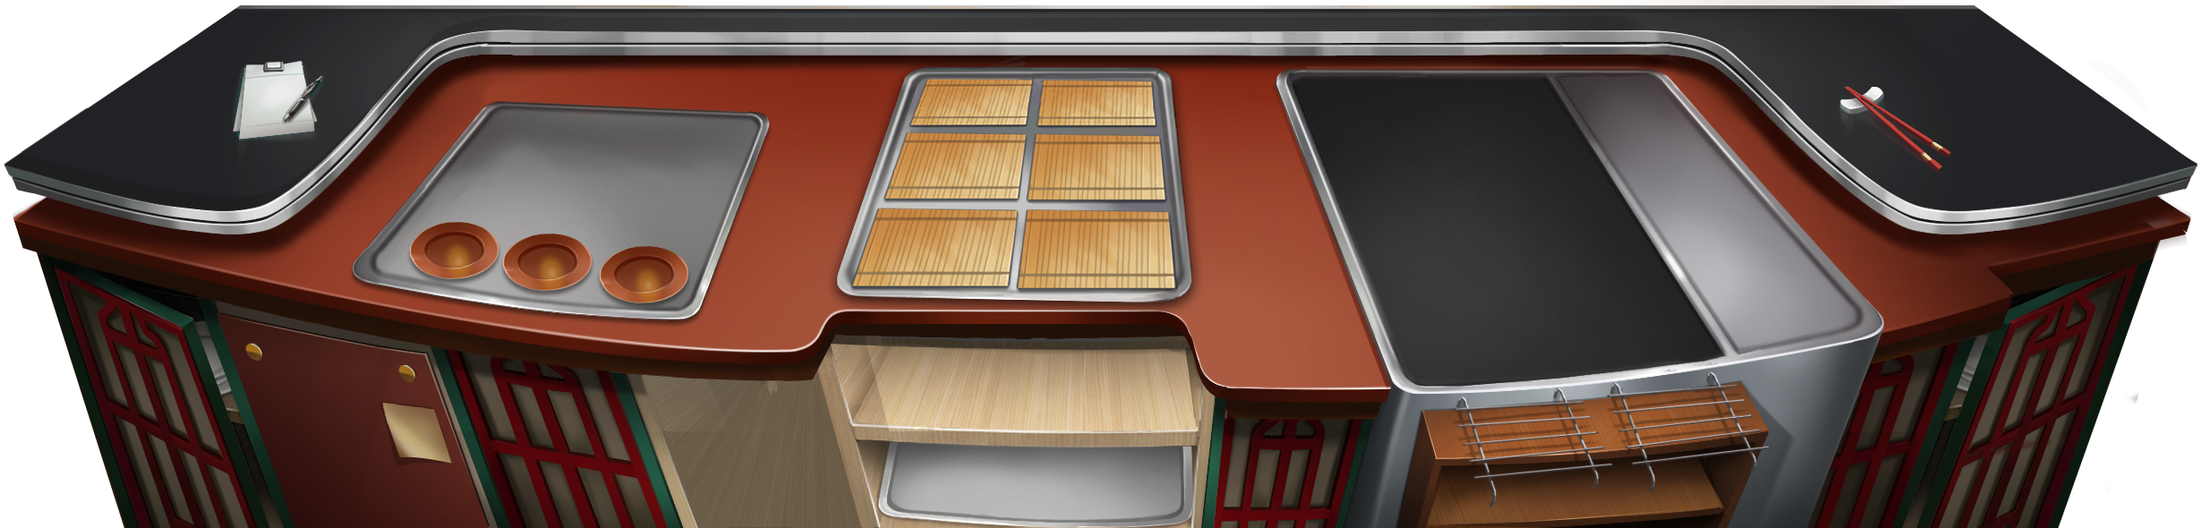
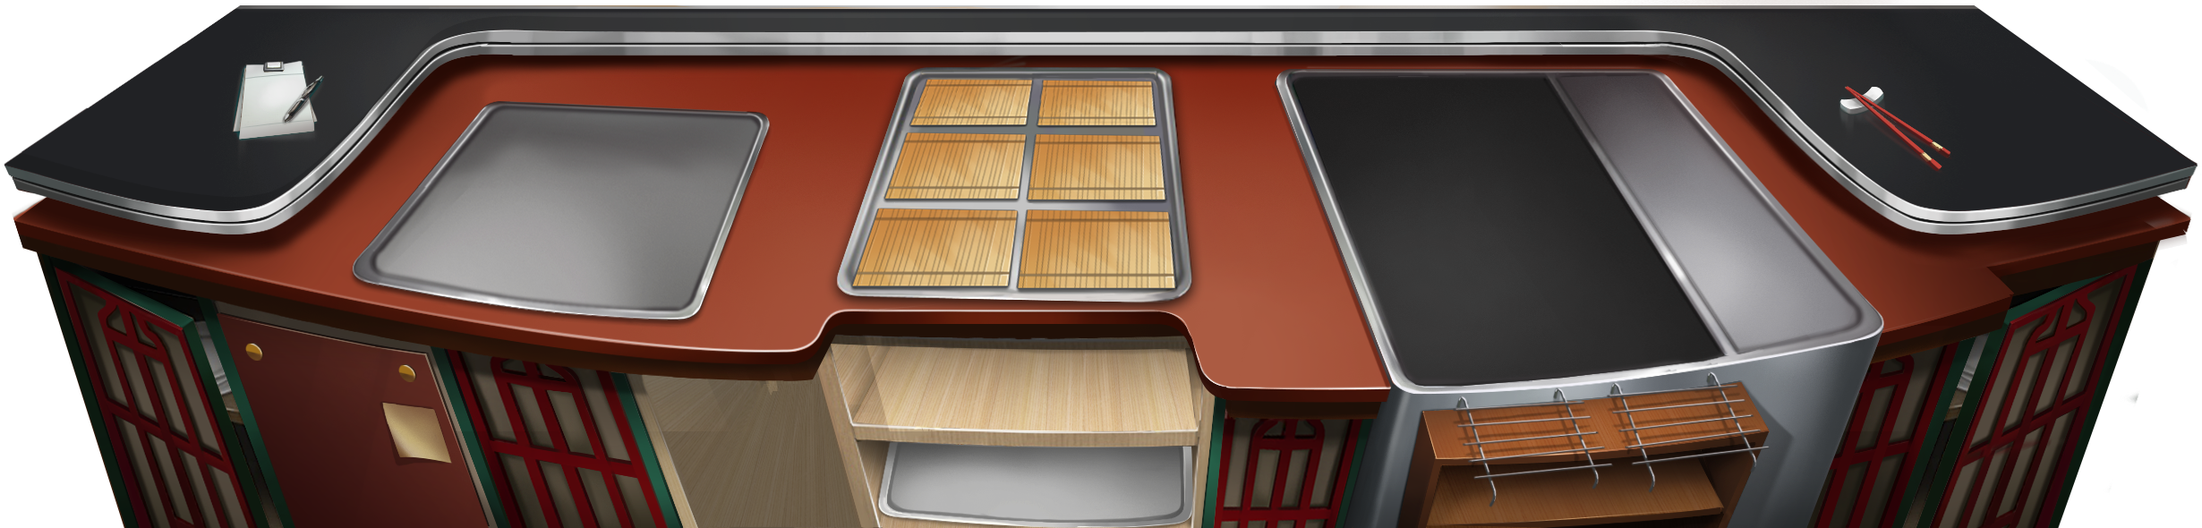
xxx

Changed region(s): [[0.1854, 0.3966, 0.3398, 0.5797]]

diff --git a/bin/js/ui/layaUI.max.all.js b/bin/js/ui/layaUI.max.all.js
@@ -48,7 +48,7 @@ var ui;
         };
         return StageOneInfoUI;
     }(View));
-    StageOneInfoUI.uiView = { "type": "View", "props": { "width": 1920, "height": 1080 }, "child": [{ "type": "Image", "props": { "y": 490, "x": -279, "skin": "stage/caozuotai.png" } }, { "type": "Sprite", "props": { "y": 177, "x": 320, "width": 1182.9999999999998, "name": "Furniture", "height": 321 }, "child": [{ "type": "Image", "props": { "y": 120.99999999999999, "x": -83.00000000000001, "width": 147, "skin": "ui/zhuozi2.png", "name": "Desk1_R3", "height": 120 } }, { "type": "Image", "props": { "y": 120.99999999999999, "x": 188.00000000000003, "width": 147, "skin": "ui/zhuozi2.png", "name": "Desk1_R3", "height": 120 } }, { "type": "Image", "props": { "y": 122, "x": 783.0000000000001, "width": 147, "skin": "ui/zhuozi2.png", "name": "Desk1_R3", "height": 120 } }, { "type": "Image", "props": { "y": 122, "x": 1035.9999999999998, "width": 147, "skin": "ui/zhuozi2.png", "name": "Desk1_R3", "height": 120 } }, { "type": "Image", "props": { "y": 127.00000000000004, "x": 280, "width": 192, "skin": "ui/zhuozi2.png", "name": "Desk1_R2", "height": 155 } }, { "type": "Image", "props": { "y": 127.00000000000004, "x": 629.9999999999998, "width": 192, "skin": "ui/zhuozi2.png", "name": "Desk1_R2", "height": 155 } }, { "type": "Image", "props": { "y": 132, "x": 9.000000000000043, "width": 227, "skin": "ui/zhuozi2.png", "name": "Desk1_R1", "height": 186 } }, { "type": "Image", "props": { "y": 112, "x": 430, "width": 275, "skin": "ui/zhuozi2.png", "name": "Desk1_R1", "height": 252 } }, { "type": "Image", "props": { "y": 135, "x": 865, "width": 227, "skin": "ui/zhuozi2.png", "name": "Desk1_R1", "height": 186 } }] }, { "type": "Sprite", "props": { "y": 849, "x": 1363, "width": 119, "pivotY": 37.19008264462809, "pivotX": 58.677685950413206, "name": "kitchenwareSn2_1", "height": 91 }, "child": [{ "type": "Image", "props": { "skin": "stage/xiaolongxiaguodi.png" } }] }, { "type": "Sprite", "props": { "y": 821, "x": 1521, "width": 165, "pivotY": 49.5867768595042, "pivotX": 80.16528925619832, "name": "kitchenwareSn1_1", "height": 142 }, "child": [{ "type": "Image", "props": { "y": -0.9999999999997726, "skin": "stage/kaolu.png" } }] }, { "type": "Sprite", "props": { "y": 751, "x": 1624, "name": "kitchenwareSn5_1" }, "child": [{ "type": "Image", "props": { "skin": "stage/baowenlu.png" } }] }, { "type": "Sprite", "props": { "y": 864, "x": 236, "name": "trash" }, "child": [{ "type": "Image", "props": { "skin": "stage/lajitong.png" } }] }, { "type": "Sprite", "props": { "y": 584, "x": 1076, "name": "itemSn4" }, "child": [{ "type": "Image", "props": { "skin": "stage/xiangcai.png" } }] }, { "type": "Sprite", "props": { "y": 775, "x": 1088, "name": "itemSn2" }, "child": [{ "type": "Image", "props": { "skin": "stage/huasheng.png" } }] }, { "type": "Sprite", "props": { "y": 673, "x": 1075, "name": "itemSn3" }, "child": [{ "type": "Image", "props": { "skin": "stage/maodou.png" } }] }, { "type": "Sprite", "props": { "y": 764, "x": 771, "width": 191, "pivotY": 42.253521126760575, "pivotX": 102.11267605633805, "name": "kitchenwareSn8_1", "height": 95 }, "child": [{ "type": "Image", "props": { "y": -0.1878989433029119, "x": -0.9080620071877092, "width": 192, "skin": "ui/suo.png", "height": 95 } }] }, { "type": "Sprite", "props": { "y": 629, "x": 699, "name": "kitchenwareSn8_2" }, "child": [{ "type": "Image", "props": { "width": 166, "skin": "ui/suo.png", "height": 88 } }] }, { "type": "Sprite", "props": { "y": 575, "x": 731, "name": "kitchenwareSn8_3" }, "child": [{ "type": "Image", "props": { "x": -0.9999999999997726, "width": 141, "skin": "ui/suo.png", "height": 58 } }] }, { "type": "Sprite", "props": { "y": 765, "x": 942, "width": 163, "pivotY": 38.15789473684208, "pivotX": 81.57894736842104, "name": "kitchenwareSn7_1", "height": 86 }, "child": [{ "type": "Image", "props": { "x": -1.1368683772161603e-13, "width": 155, "skin": "ui/suo.png", "height": 86 } }] }, { "type": "Sprite", "props": { "y": 638, "x": 878, "name": "kitchenwareSn7_2" }, "child": [{ "type": "Image", "props": { "width": 154, "skin": "ui/suo.png", "height": 79 } }] }, { "type": "Sprite", "props": { "y": 565, "x": 882, "name": "kitchenwareSn7_3" }, "child": [{ "type": "Image", "props": { "width": 154, "skin": "ui/suo.png", "height": 74 } }] }, { "type": "Sprite", "props": { "y": 920, "x": 943, "width": 167, "pivotY": 57.89473684210532, "pivotX": 82.8947368421052, "name": "itemSn6", "height": 120 }, "child": [{ "type": "Image", "props": { "skin": "stage/kaochuanpan.png" } }] }, { "type": "Sprite", "props": { "y": 914, "x": 776, "width": 172, "pivotY": 60, "pivotX": 86, "name": "itemSn7", "height": 120 }, "child": [{ "type": "Image", "props": { "skin": "stage/xiaolongxiapen.png" } }] }, { "type": "Sprite", "props": { "y": 557, "x": 413, "name": "kitchenwareSn6_1" }, "child": [{ "type": "Image", "props": { "width": 127, "skin": "stage/pijiutong.png", "height": 198 } }, { "type": "Image", "props": { "y": 143, "x": -21.999999999999716, "skin": "stage/pijiu.png" } }] }, { "type": "Sprite", "props": { "y": 549, "x": 305, "name": "kitchenwareSn6_2" }, "child": [{ "type": "Image", "props": { "width": 132, "skin": "stage/pijiutong.png", "height": 191 } }, { "type": "Image", "props": { "y": 140, "x": -22, "skin": "stage/pijiu.png" } }] }, { "type": "Sprite", "props": { "y": 531, "x": 204, "name": "kitchenwareSn6_3" }, "child": [{ "type": "Image", "props": { "width": 126, "skin": "stage/pijiutong.png", "height": 197 } }, { "type": "Image", "props": { "y": 142.0000000000001, "x": -23.999999999999915, "skin": "stage/pijiu.png" } }] }, { "type": "Sprite", "props": { "y": 949, "x": 1592, "width": 99, "pivotY": 42.14876033057851, "pivotX": 48.76033057851237, "name": "itemSn1", "height": 105 }, "child": [{ "type": "Image", "props": { "skin": "stage/rouchuan.png" } }] }, { "type": "Sprite", "props": { "y": 976, "x": 1450, "width": 231, "pivotY": 63.636363636363626, "pivotX": 109.91735537190084, "name": "itemSn5", "height": 137 }, "child": [{ "type": "Image", "props": { "skin": "stage/xiaolongxiaguo2.png" } }] }] };
+    StageOneInfoUI.uiView = { "type": "View", "props": { "width": 1920, "height": 1080 }, "child": [{ "type": "Sprite", "props": { "y": 177, "x": 320, "width": 1182.9999999999998, "name": "Furniture", "height": 321 }, "child": [{ "type": "Image", "props": { "y": 120.99999999999999, "x": -83.00000000000001, "width": 147, "skin": "ui/zhuozi2.png", "name": "Desk1_R3", "height": 120 } }, { "type": "Image", "props": { "y": 120.99999999999999, "x": 188.00000000000003, "width": 147, "skin": "ui/zhuozi2.png", "name": "Desk1_R3", "height": 120 } }, { "type": "Image", "props": { "y": 122, "x": 783.0000000000001, "width": 147, "skin": "ui/zhuozi2.png", "name": "Desk1_R3", "height": 120 } }, { "type": "Image", "props": { "y": 122, "x": 1035.9999999999998, "width": 147, "skin": "ui/zhuozi2.png", "name": "Desk1_R3", "height": 120 } }, { "type": "Image", "props": { "y": 127.00000000000004, "x": 280, "width": 192, "skin": "ui/zhuozi2.png", "name": "Desk1_R2", "height": 155 } }, { "type": "Image", "props": { "y": 127.00000000000004, "x": 629.9999999999998, "width": 192, "skin": "ui/zhuozi2.png", "name": "Desk1_R2", "height": 155 } }, { "type": "Image", "props": { "y": 132, "x": 9.000000000000043, "width": 227, "skin": "ui/zhuozi2.png", "name": "Desk1_R1", "height": 186 } }, { "type": "Image", "props": { "y": 112, "x": 430, "width": 275, "skin": "ui/zhuozi2.png", "name": "Desk1_R1", "height": 252 } }, { "type": "Image", "props": { "y": 135, "x": 865, "width": 227, "skin": "ui/zhuozi2.png", "name": "Desk1_R1", "height": 186 } }] }, { "type": "Sprite", "props": { "y": 849, "x": 1363, "width": 119, "pivotY": 37.19008264462809, "pivotX": 58.677685950413206, "name": "kitchenwareSn2_1", "height": 91 }, "child": [{ "type": "Image", "props": { "skin": "stage/xiaolongxiaguodi.png" } }] }, { "type": "Sprite", "props": { "y": 821, "x": 1521, "width": 165, "pivotY": 49.5867768595042, "pivotX": 80.16528925619832, "name": "kitchenwareSn1_1", "height": 142 }, "child": [{ "type": "Image", "props": { "y": -0.9999999999997726, "skin": "stage/kaolu.png" } }] }, { "type": "Sprite", "props": { "y": 751, "x": 1624, "name": "kitchenwareSn3_1" }, "child": [{ "type": "Image", "props": { "skin": "stage/baowenlu.png" } }] }, { "type": "Sprite", "props": { "y": 864, "x": 236, "name": "trash" }, "child": [{ "type": "Image", "props": { "skin": "stage/lajitong.png" } }] }, { "type": "Sprite", "props": { "y": 584, "x": 1076, "name": "itemSn4" }, "child": [{ "type": "Image", "props": { "skin": "stage/xiangcai.png" } }] }, { "type": "Sprite", "props": { "y": 775, "x": 1088, "name": "itemSn2" }, "child": [{ "type": "Image", "props": { "skin": "stage/huasheng.png" } }] }, { "type": "Sprite", "props": { "y": 673, "x": 1075, "name": "itemSn3" }, "child": [{ "type": "Image", "props": { "skin": "stage/maodou.png" } }] }, { "type": "Sprite", "props": { "y": 764, "x": 771, "width": 191, "pivotY": 42.253521126760575, "pivotX": 102.11267605633805, "name": "kitchenwareSn8_1", "height": 95 }, "child": [{ "type": "Image", "props": { "y": -0.1878989433029119, "x": -0.9080620071877092, "width": 192, "skin": "ui/suo.png", "height": 95 } }] }, { "type": "Sprite", "props": { "y": 629, "x": 699, "name": "kitchenwareSn8_2" }, "child": [{ "type": "Image", "props": { "width": 166, "skin": "ui/suo.png", "height": 88 } }] }, { "type": "Sprite", "props": { "y": 575, "x": 731, "name": "kitchenwareSn8_3" }, "child": [{ "type": "Image", "props": { "x": -0.9999999999997726, "width": 141, "skin": "ui/suo.png", "height": 58 } }] }, { "type": "Sprite", "props": { "y": 765, "x": 942, "width": 163, "pivotY": 38.15789473684208, "pivotX": 81.57894736842104, "name": "kitchenwareSn7_1", "height": 86 }, "child": [{ "type": "Image", "props": { "x": -1.1368683772161603e-13, "width": 155, "skin": "ui/suo.png", "height": 86 } }] }, { "type": "Sprite", "props": { "y": 638, "x": 878, "name": "kitchenwareSn7_2" }, "child": [{ "type": "Image", "props": { "width": 154, "skin": "ui/suo.png", "height": 79 } }] }, { "type": "Sprite", "props": { "y": 565, "x": 882, "name": "kitchenwareSn7_3" }, "child": [{ "type": "Image", "props": { "width": 154, "skin": "ui/suo.png", "height": 74 } }] }, { "type": "Sprite", "props": { "y": 920, "x": 943, "width": 167, "pivotY": 57.89473684210532, "pivotX": 82.8947368421052, "name": "itemSn6", "height": 120 }, "child": [{ "type": "Image", "props": { "skin": "stage/kaochuanpan.png" } }] }, { "type": "Sprite", "props": { "y": 914, "x": 776, "width": 172, "pivotY": 60, "pivotX": 86, "name": "itemSn7", "height": 120 }, "child": [{ "type": "Image", "props": { "skin": "stage/xiaolongxiapen.png" } }] }, { "type": "Sprite", "props": { "y": 949, "x": 1592, "width": 99, "pivotY": 42.14876033057851, "pivotX": 48.76033057851237, "name": "itemSn1", "height": 105 }, "child": [{ "type": "Image", "props": { "skin": "stage/rouchuan.png" } }] }, { "type": "Sprite", "props": { "y": 976, "x": 1450, "width": 231, "pivotY": 63.636363636363626, "pivotX": 109.91735537190084, "name": "itemSn5", "height": 137 }, "child": [{ "type": "Image", "props": { "skin": "stage/xiaolongxiaguo2.png" } }] }, { "type": "Sprite", "props": { "y": 589, "x": 420, "name": "kitchenwareSn4_1" }, "child": [{ "type": "Image", "props": { "width": 115, "skin": "stage/pijiutong.png", "height": 163 } }] }] };
     ui.StageOneInfoUI = StageOneInfoUI;
 })(ui || (ui = {}));
 (function (ui) {

diff --git a/src/ui/layaUI.max.all.ts b/src/ui/layaUI.max.all.ts
@@ -31,7 +31,7 @@ module ui {
 module ui {
     export class StageOneInfoUI extends View {
 
-        public static  uiView:any ={"type":"View","props":{"width":1920,"height":1080},"child":[{"type":"Image","props":{"y":490,"x":-279,"skin":"stage/caozuotai.png"}},{"type":"Sprite","props":{"y":177,"x":320,"width":1182.9999999999998,"name":"Furniture","height":321},"child":[{"type":"Image","props":{"y":120.99999999999999,"x":-83.00000000000001,"width":147,"skin":"ui/zhuozi2.png","name":"Desk1_R3","height":120}},{"type":"Image","props":{"y":120.99999999999999,"x":188.00000000000003,"width":147,"skin":"ui/zhuozi2.png","name":"Desk1_R3","height":120}},{"type":"Image","props":{"y":122,"x":783.0000000000001,"width":147,"skin":"ui/zhuozi2.png","name":"Desk1_R3","height":120}},{"type":"Image","props":{"y":122,"x":1035.9999999999998,"width":147,"skin":"ui/zhuozi2.png","name":"Desk1_R3","height":120}},{"type":"Image","props":{"y":127.00000000000004,"x":280,"width":192,"skin":"ui/zhuozi2.png","name":"Desk1_R2","height":155}},{"type":"Image","props":{"y":127.00000000000004,"x":629.9999999999998,"width":192,"skin":"ui/zhuozi2.png","name":"Desk1_R2","height":155}},{"type":"Image","props":{"y":132,"x":9.000000000000043,"width":227,"skin":"ui/zhuozi2.png","name":"Desk1_R1","height":186}},{"type":"Image","props":{"y":112,"x":430,"width":275,"skin":"ui/zhuozi2.png","name":"Desk1_R1","height":252}},{"type":"Image","props":{"y":135,"x":865,"width":227,"skin":"ui/zhuozi2.png","name":"Desk1_R1","height":186}}]},{"type":"Sprite","props":{"y":849,"x":1363,"width":119,"pivotY":37.19008264462809,"pivotX":58.677685950413206,"name":"kitchenwareSn2_1","height":91},"child":[{"type":"Image","props":{"skin":"stage/xiaolongxiaguodi.png"}}]},{"type":"Sprite","props":{"y":821,"x":1521,"width":165,"pivotY":49.5867768595042,"pivotX":80.16528925619832,"name":"kitchenwareSn1_1","height":142},"child":[{"type":"Image","props":{"y":-0.9999999999997726,"skin":"stage/kaolu.png"}}]},{"type":"Sprite","props":{"y":751,"x":1624,"name":"kitchenwareSn5_1"},"child":[{"type":"Image","props":{"skin":"stage/baowenlu.png"}}]},{"type":"Sprite","props":{"y":864,"x":236,"name":"trash"},"child":[{"type":"Image","props":{"skin":"stage/lajitong.png"}}]},{"type":"Sprite","props":{"y":584,"x":1076,"name":"itemSn4"},"child":[{"type":"Image","props":{"skin":"stage/xiangcai.png"}}]},{"type":"Sprite","props":{"y":775,"x":1088,"name":"itemSn2"},"child":[{"type":"Image","props":{"skin":"stage/huasheng.png"}}]},{"type":"Sprite","props":{"y":673,"x":1075,"name":"itemSn3"},"child":[{"type":"Image","props":{"skin":"stage/maodou.png"}}]},{"type":"Sprite","props":{"y":764,"x":771,"width":191,"pivotY":42.253521126760575,"pivotX":102.11267605633805,"name":"kitchenwareSn8_1","height":95},"child":[{"type":"Image","props":{"y":-0.1878989433029119,"x":-0.9080620071877092,"width":192,"skin":"ui/suo.png","height":95}}]},{"type":"Sprite","props":{"y":629,"x":699,"name":"kitchenwareSn8_2"},"child":[{"type":"Image","props":{"width":166,"skin":"ui/suo.png","height":88}}]},{"type":"Sprite","props":{"y":575,"x":731,"name":"kitchenwareSn8_3"},"child":[{"type":"Image","props":{"x":-0.9999999999997726,"width":141,"skin":"ui/suo.png","height":58}}]},{"type":"Sprite","props":{"y":765,"x":942,"width":163,"pivotY":38.15789473684208,"pivotX":81.57894736842104,"name":"kitchenwareSn7_1","height":86},"child":[{"type":"Image","props":{"x":-1.1368683772161603e-13,"width":155,"skin":"ui/suo.png","height":86}}]},{"type":"Sprite","props":{"y":638,"x":878,"name":"kitchenwareSn7_2"},"child":[{"type":"Image","props":{"width":154,"skin":"ui/suo.png","height":79}}]},{"type":"Sprite","props":{"y":565,"x":882,"name":"kitchenwareSn7_3"},"child":[{"type":"Image","props":{"width":154,"skin":"ui/suo.png","height":74}}]},{"type":"Sprite","props":{"y":920,"x":943,"width":167,"pivotY":57.89473684210532,"pivotX":82.8947368421052,"name":"itemSn6","height":120},"child":[{"type":"Image","props":{"skin":"stage/kaochuanpan.png"}}]},{"type":"Sprite","props":{"y":914,"x":776,"width":172,"pivotY":60,"pivotX":86,"name":"itemSn7","height":120},"child":[{"type":"Image","props":{"skin":"stage/xiaolongxiapen.png"}}]},{"type":"Sprite","props":{"y":557,"x":413,"name":"kitchenwareSn6_1"},"child":[{"type":"Image","props":{"width":127,"skin":"stage/pijiutong.png","height":198}},{"type":"Image","props":{"y":143,"x":-21.999999999999716,"skin":"stage/pijiu.png"}}]},{"type":"Sprite","props":{"y":549,"x":305,"name":"kitchenwareSn6_2"},"child":[{"type":"Image","props":{"width":132,"skin":"stage/pijiutong.png","height":191}},{"type":"Image","props":{"y":140,"x":-22,"skin":"stage/pijiu.png"}}]},{"type":"Sprite","props":{"y":531,"x":204,"name":"kitchenwareSn6_3"},"child":[{"type":"Image","props":{"width":126,"skin":"stage/pijiutong.png","height":197}},{"type":"Image","props":{"y":142.0000000000001,"x":-23.999999999999915,"skin":"stage/pijiu.png"}}]},{"type":"Sprite","props":{"y":949,"x":1592,"width":99,"pivotY":42.14876033057851,"pivotX":48.76033057851237,"name":"itemSn1","height":105},"child":[{"type":"Image","props":{"skin":"stage/rouchuan.png"}}]},{"type":"Sprite","props":{"y":976,"x":1450,"width":231,"pivotY":63.636363636363626,"pivotX":109.91735537190084,"name":"itemSn5","height":137},"child":[{"type":"Image","props":{"skin":"stage/xiaolongxiaguo2.png"}}]}]};
+        public static  uiView:any ={"type":"View","props":{"width":1920,"height":1080},"child":[{"type":"Sprite","props":{"y":177,"x":320,"width":1182.9999999999998,"name":"Furniture","height":321},"child":[{"type":"Image","props":{"y":120.99999999999999,"x":-83.00000000000001,"width":147,"skin":"ui/zhuozi2.png","name":"Desk1_R3","height":120}},{"type":"Image","props":{"y":120.99999999999999,"x":188.00000000000003,"width":147,"skin":"ui/zhuozi2.png","name":"Desk1_R3","height":120}},{"type":"Image","props":{"y":122,"x":783.0000000000001,"width":147,"skin":"ui/zhuozi2.png","name":"Desk1_R3","height":120}},{"type":"Image","props":{"y":122,"x":1035.9999999999998,"width":147,"skin":"ui/zhuozi2.png","name":"Desk1_R3","height":120}},{"type":"Image","props":{"y":127.00000000000004,"x":280,"width":192,"skin":"ui/zhuozi2.png","name":"Desk1_R2","height":155}},{"type":"Image","props":{"y":127.00000000000004,"x":629.9999999999998,"width":192,"skin":"ui/zhuozi2.png","name":"Desk1_R2","height":155}},{"type":"Image","props":{"y":132,"x":9.000000000000043,"width":227,"skin":"ui/zhuozi2.png","name":"Desk1_R1","height":186}},{"type":"Image","props":{"y":112,"x":430,"width":275,"skin":"ui/zhuozi2.png","name":"Desk1_R1","height":252}},{"type":"Image","props":{"y":135,"x":865,"width":227,"skin":"ui/zhuozi2.png","name":"Desk1_R1","height":186}}]},{"type":"Sprite","props":{"y":849,"x":1363,"width":119,"pivotY":37.19008264462809,"pivotX":58.677685950413206,"name":"kitchenwareSn2_1","height":91},"child":[{"type":"Image","props":{"skin":"stage/xiaolongxiaguodi.png"}}]},{"type":"Sprite","props":{"y":821,"x":1521,"width":165,"pivotY":49.5867768595042,"pivotX":80.16528925619832,"name":"kitchenwareSn1_1","height":142},"child":[{"type":"Image","props":{"y":-0.9999999999997726,"skin":"stage/kaolu.png"}}]},{"type":"Sprite","props":{"y":751,"x":1624,"name":"kitchenwareSn3_1"},"child":[{"type":"Image","props":{"skin":"stage/baowenlu.png"}}]},{"type":"Sprite","props":{"y":864,"x":236,"name":"trash"},"child":[{"type":"Image","props":{"skin":"stage/lajitong.png"}}]},{"type":"Sprite","props":{"y":584,"x":1076,"name":"itemSn4"},"child":[{"type":"Image","props":{"skin":"stage/xiangcai.png"}}]},{"type":"Sprite","props":{"y":775,"x":1088,"name":"itemSn2"},"child":[{"type":"Image","props":{"skin":"stage/huasheng.png"}}]},{"type":"Sprite","props":{"y":673,"x":1075,"name":"itemSn3"},"child":[{"type":"Image","props":{"skin":"stage/maodou.png"}}]},{"type":"Sprite","props":{"y":764,"x":771,"width":191,"pivotY":42.253521126760575,"pivotX":102.11267605633805,"name":"kitchenwareSn8_1","height":95},"child":[{"type":"Image","props":{"y":-0.1878989433029119,"x":-0.9080620071877092,"width":192,"skin":"ui/suo.png","height":95}}]},{"type":"Sprite","props":{"y":629,"x":699,"name":"kitchenwareSn8_2"},"child":[{"type":"Image","props":{"width":166,"skin":"ui/suo.png","height":88}}]},{"type":"Sprite","props":{"y":575,"x":731,"name":"kitchenwareSn8_3"},"child":[{"type":"Image","props":{"x":-0.9999999999997726,"width":141,"skin":"ui/suo.png","height":58}}]},{"type":"Sprite","props":{"y":765,"x":942,"width":163,"pivotY":38.15789473684208,"pivotX":81.57894736842104,"name":"kitchenwareSn7_1","height":86},"child":[{"type":"Image","props":{"x":-1.1368683772161603e-13,"width":155,"skin":"ui/suo.png","height":86}}]},{"type":"Sprite","props":{"y":638,"x":878,"name":"kitchenwareSn7_2"},"child":[{"type":"Image","props":{"width":154,"skin":"ui/suo.png","height":79}}]},{"type":"Sprite","props":{"y":565,"x":882,"name":"kitchenwareSn7_3"},"child":[{"type":"Image","props":{"width":154,"skin":"ui/suo.png","height":74}}]},{"type":"Sprite","props":{"y":920,"x":943,"width":167,"pivotY":57.89473684210532,"pivotX":82.8947368421052,"name":"itemSn6","height":120},"child":[{"type":"Image","props":{"skin":"stage/kaochuanpan.png"}}]},{"type":"Sprite","props":{"y":914,"x":776,"width":172,"pivotY":60,"pivotX":86,"name":"itemSn7","height":120},"child":[{"type":"Image","props":{"skin":"stage/xiaolongxiapen.png"}}]},{"type":"Sprite","props":{"y":949,"x":1592,"width":99,"pivotY":42.14876033057851,"pivotX":48.76033057851237,"name":"itemSn1","height":105},"child":[{"type":"Image","props":{"skin":"stage/rouchuan.png"}}]},{"type":"Sprite","props":{"y":976,"x":1450,"width":231,"pivotY":63.636363636363626,"pivotX":109.91735537190084,"name":"itemSn5","height":137},"child":[{"type":"Image","props":{"skin":"stage/xiaolongxiaguo2.png"}}]},{"type":"Sprite","props":{"y":589,"x":420,"name":"kitchenwareSn4_1"},"child":[{"type":"Image","props":{"width":115,"skin":"stage/pijiutong.png","height":163}}]}]};
         constructor(){ super()}
         createChildren():void {
         

diff --git a/src/stage/StageOne.ts b/src/stage/StageOne.ts
@@ -7,6 +7,7 @@ class StageOne extends Laya.Sprite{
     private configKitchenware : ConfigKitchenware = new ConfigKitchenware();
     public plates: any[] = [];
     public pots: any[] = [];
+    public crisper: any[] = [];
     public customers : any[] = [];
     //被选中的道具
     public selected: any = null;
@@ -88,7 +89,8 @@ class StageOne extends Laya.Sprite{
             var configKitchenware = this.configKitchenware.getBy("id", id, "level", sprites["kitchenware"][id]);
             for(var i = 1; i <= configKitchenware.spacenum; i++) {
                 var uiKitchenware = this.uiInfo.getChildByName("kitchenwareSn" + id + "_" + i) as Laya.Sprite;
-                
+                if(uiKitchenware == null) continue;
+
                 var kitchenware = eval("new " + configKitchenware.type + "(" + id + "," + i + ")");
                 kitchenware.pos(uiKitchenware.x, uiKitchenware.y);
                 kitchenware.scale(uiKitchenware.scaleX, uiKitchenware.scaleY);
@@ -102,6 +104,10 @@ class StageOne extends Laya.Sprite{
                 //如果是锅则加到列表里
                 else if(configKitchenware.type == "Pot") {
                     this.pots.push(kitchenware);
+                }
+                //如果是保温炉加到列表里
+                else if(configKitchenware.type == "Crisper") {
+                    this.crisper.push(kitchenware);
                 }
                 //替换后删除
                 this.uiInfo.removeChildByName("kitchenwareSn" + id + "_" + i);

diff --git a/bin/js/stage/StageOne.js b/bin/js/stage/StageOne.js
@@ -14,6 +14,7 @@ var StageOne = (function (_super) {
         _this.configKitchenware = new ConfigKitchenware();
         _this.plates = [];
         _this.pots = [];
+        _this.crisper = [];
         _this.customers = [];
         //被选中的道具
         _this.selected = null;
@@ -76,6 +77,8 @@ var StageOne = (function (_super) {
             var configKitchenware = _this.configKitchenware.getBy("id", id, "level", sprites["kitchenware"][id]);
             for (var i = 1; i <= configKitchenware.spacenum; i++) {
                 var uiKitchenware = _this.uiInfo.getChildByName("kitchenwareSn" + id + "_" + i);
+                if (uiKitchenware == null)
+                    continue;
                 var kitchenware = eval("new " + configKitchenware.type + "(" + id + "," + i + ")");
                 kitchenware.pos(uiKitchenware.x, uiKitchenware.y);
                 kitchenware.scale(uiKitchenware.scaleX, uiKitchenware.scaleY);
@@ -87,6 +90,9 @@ var StageOne = (function (_super) {
                 }
                 else if (configKitchenware.type == "Pot") {
                     _this.pots.push(kitchenware);
+                }
+                else if (configKitchenware.type == "Crisper") {
+                    _this.crisper.push(kitchenware);
                 }
                 //替换后删除
                 _this.uiInfo.removeChildByName("kitchenwareSn" + id + "_" + i);

diff --git a/src/stage/Item.ts b/src/stage/Item.ts
@@ -37,6 +37,16 @@ class Item extends Laya.Sprite{
                     return;
                 }
             }
+            if(this.box instanceof Pot) {
+                var crispers = StageManager.stage.crisper;
+                for(var i = 0; i < crispers.length; i++) {
+                    var crisper: Crisper = crispers[i];
+                    if(crisper.item == null) {
+                        crisper.addItem(this);
+                        return;
+                    }
+                }
+            }
         }
         //焦了直接扔垃圾桶
         else if(this.progress == 2) {
@@ -52,14 +62,15 @@ class Item extends Laya.Sprite{
 
         //新的道具
         if(!this.state) {
-            //找到空盘子放进去
             if(this.confItem.ripe) {
                 var plates = StageManager.stage.plates;
                 for(var i = 0; i < plates.length; i++) {
                     var plate: Plate = plates[i];
+                    //是否有可以合成的
                     if(plate.item != null && this.meger(plate.item)) {
                         break;
                     }
+                    //是否有盘子可以放
                     else if(plate.item == null && plate.getMakeItemSn() == this.confItem.itemSn) {
                         var item = new Item(this.confItem);
                         item.state = true;

diff --git a/bin/js/stage/Item.js b/bin/js/stage/Item.js
@@ -35,6 +35,16 @@ var Item = (function (_super) {
                     return;
                 }
             }
+            if (this.box instanceof Pot) {
+                var crispers = StageManager.stage.crisper;
+                for (var i = 0; i < crispers.length; i++) {
+                    var crisper = crispers[i];
+                    if (crisper.item == null) {
+                        crisper.addItem(this);
+                        return;
+                    }
+                }
+            }
         }
         else if (this.progress == 2) {
             StageManager.stage.trashCanObj.abandon(this);
@@ -47,11 +57,11 @@ var Item = (function (_super) {
         }
         //新的道具
         if (!this.state) {
-            //找到空盘子放进去
             if (this.confItem.ripe) {
                 var plates = StageManager.stage.plates;
                 for (var i = 0; i < plates.length; i++) {
                     var plate = plates[i];
+                    //是否有可以合成的
                     if (plate.item != null && this.meger(plate.item)) {
                         break;
                     }

diff --git a/bin/js/stage/Crisper.js b/bin/js/stage/Crisper.js
@@ -1,0 +1,26 @@
+var __extends = (this && this.__extends) || function (d, b) {
+    for (var p in b) if (b.hasOwnProperty(p)) d[p] = b[p];
+    function __() { this.constructor = d; }
+    d.prototype = b === null ? Object.create(b) : (__.prototype = b.prototype, new __());
+};
+var Crisper = (function (_super) {
+    __extends(Crisper, _super);
+    function Crisper(id, level) {
+        var _this = _super.call(this) || this;
+        _this.item = null;
+        _this.configKitchenware = new ConfigKitchenware().getBy("id", id, "level", level);
+        _this.loadImage("stage/" + _this.configKitchenware.picture);
+        return _this;
+    }
+    Crisper.prototype.addItem = function (item) {
+        this.item = item;
+        this.item.box.handle();
+        this.item.pos(this.x, this.y);
+        this.item.box = this;
+    };
+    Crisper.prototype.handle = function () {
+        this.item = null;
+    };
+    return Crisper;
+}(Laya.Sprite));
+//# sourceMappingURL=Crisper.js.map

diff --git a/src/stage/Crisper.ts b/src/stage/Crisper.ts
@@ -1,0 +1,22 @@
+class Crisper extends Laya.Sprite{
+        //配置
+    private configKitchenware: any;
+    public item: Item = null;
+
+    constructor(id: number, level: number) {
+        super();
+        this.configKitchenware = new ConfigKitchenware().getBy("id", id, "level", level);
+        this.loadImage("stage/" + this.configKitchenware.picture);
+    }
+
+    public addItem(item: Item) {
+        this.item = item;
+        this.item.box.handle();
+        this.item.pos(this.x, this.y);
+        this.item.box = this;
+    }
+
+    public handle() {
+        this.item = null;
+    }
+}

diff --git a/src/stage/CoffeeMachine.ts b/src/stage/CoffeeMachine.ts
@@ -12,7 +12,7 @@ class CoffeeMachine extends Laya.Sprite{
         if(this.configKitchenware.automatic) {
             this.handle();
         }
-         //注册点击事件
+        //注册点击事件
         this.on(Laya.Event.CLICK, this, this.onClick);
     }
 
@@ -29,8 +29,8 @@ class CoffeeMachine extends Laya.Sprite{
         this.item = item;
         item.box = this;
         item.state = true;
-        item.pos(this.x, this.y + 120);
-        Laya.stage.addChild(item);
+        item.pos(394, 719);
+        StageManager.stage.addChild(item);
     }
 
     

diff --git a/bin/js/stage/CoffeeMachine.js b/bin/js/stage/CoffeeMachine.js
@@ -30,8 +30,8 @@ var CoffeeMachine = (function (_super) {
         this.item = item;
         item.box = this;
         item.state = true;
-        item.pos(this.x, this.y + 120);
-        Laya.stage.addChild(item);
+        item.pos(394, 719);
+        StageManager.stage.addChild(item);
     };
     CoffeeMachine.prototype.onClick = function (e) {
         //自动的无需点击

diff --git a/bin/index.html b/bin/index.html
@@ -62,6 +62,7 @@
 	<script src="js/config/ConfigCustomer.js"></script>
 	<script src="js/stage/CashBag.js"></script>
 	<script src="js/stage/CoffeeMachine.js"></script>
+	<script src="js/stage/Crisper.js"></script>
 	<script src="js/stage/Customer.js"></script>
 	<script src="js/stage/Item.js"></script>
 	<script src="js/stage/Plate.js"></script>

diff --git a/bin/js/stage/Pot.js b/bin/js/stage/Pot.js
@@ -39,6 +39,7 @@ var Pot = (function (_super) {
     };
     Pot.prototype.handle = function () {
         this.item = null;
+        this.clearTimer(this, this.updateProgress);
     };
     return Pot;
 }(Laya.Sprite));
